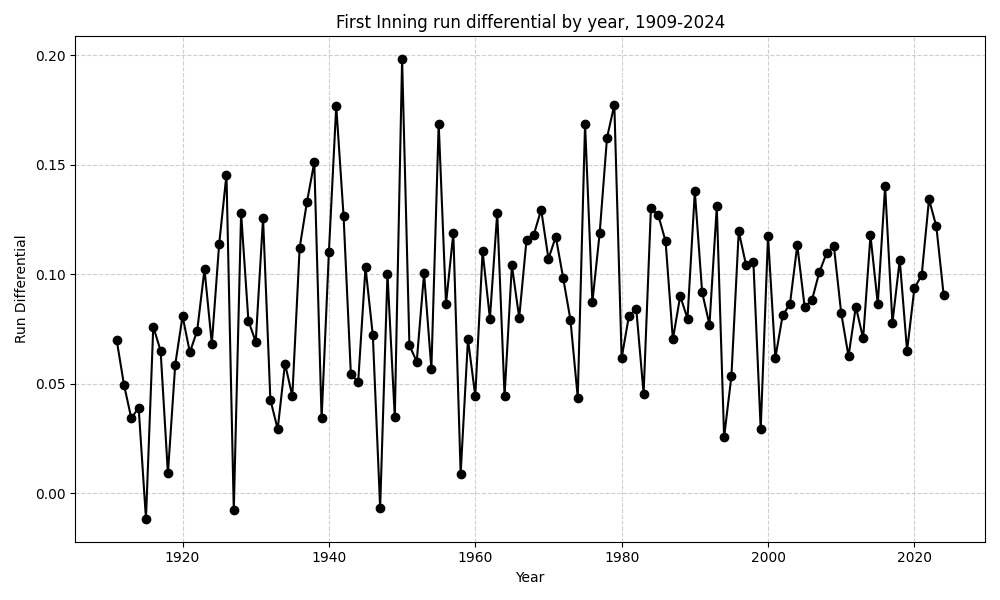
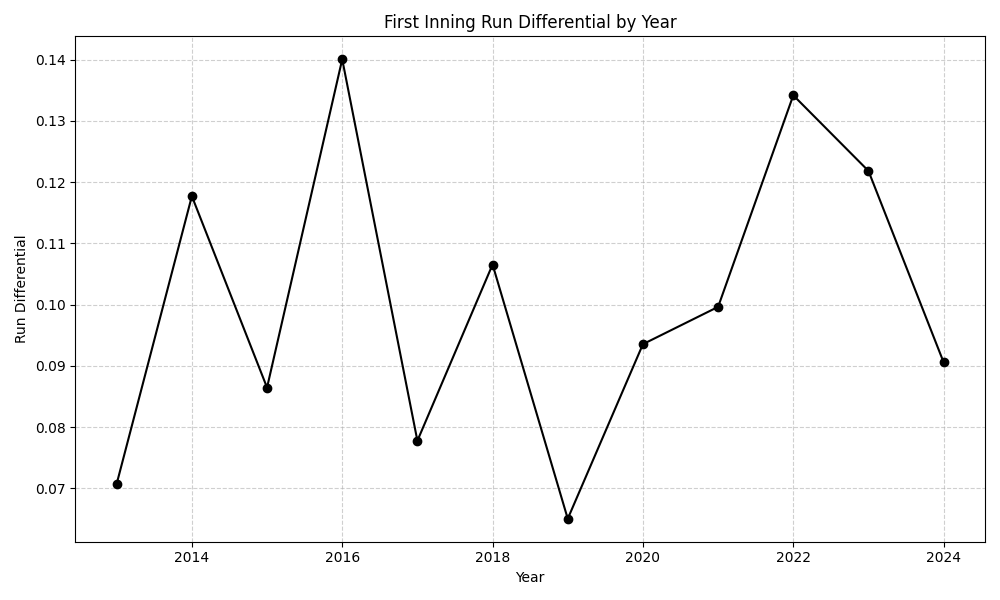
added more visuals

diff --git a/visuals/visualize_first_inning.py b/visuals/visualize_first_inning.py
@@ -1,118 +1,92 @@
 import pandas as pd
 import matplotlib.pyplot as plt
-import os
 
 def plot_runs_per_inning(df, save_path="runs_per_inning.png"):
-    # Drop missing/empty rows
     df = df.dropna(subset=["inning", "visitor_avg_runs", "home_avg_runs"])
-
-    # Calculate combined runs (both teams)
     df["total_avg_runs"] = df["visitor_avg_runs"] + df["home_avg_runs"]
 
-    innings = df["inning"]
-    total_avg_runs = df["total_avg_runs"]
-
     plt.figure(figsize=(10, 6))
-    plt.plot(innings, total_avg_runs, marker="o", linestyle="-", color="black")
+    plt.plot(df["inning"], df["total_avg_runs"], linestyle="-", marker='o', color="black", label="Total")
     plt.xlabel("Inning")
     plt.ylabel("Average Runs per Inning")
     plt.title("Average Runs per Inning (Both Teams, 2013-2024)")
     plt.xticks(range(1, 11))
     plt.grid(True, linestyle="--", alpha=0.6)
+    plt.legend()
     plt.tight_layout()
     plt.savefig(save_path)
     plt.show()
 
 def home_versus_visiting_inning(df, save_path="home_versus_visiting_inning.png"):
-    innings = df["inning"]
-    visitor_avg_runs = df["visitor_avg_runs"]
-    home_avg_runs = df["home_avg_runs"]
+    df = df.dropna(subset=["inning", "visitor_avg_runs", "home_avg_runs"])
 
     plt.figure(figsize=(10, 6))
-    plt.plot(innings, visitor_avg_runs, marker="o", linestyle="-", color="blue")
-    plt.plot(innings, home_avg_runs, marker="s", linestyle="-", color="red")
+    plt.plot(df["inning"], df["visitor_avg_runs"], linestyle="-", marker='o', color="blue", label="Visitor")
+    plt.plot(df["inning"], df["home_avg_runs"], linestyle="-", marker='o', color="red", label="Home")
     plt.xlabel("Inning")
     plt.ylabel("Runs per Inning")
     plt.title("Average Runs per Inning by Visitor and Home, 2013-2024")
     plt.xticks(range(1, 11))
-    plt.legend()
     plt.grid(True, linestyle="--", alpha=0.6)
+    plt.legend()
     plt.tight_layout()
     plt.savefig(save_path)
     plt.show()
 
 def plot_differential_runs_per_inning(df, save_path="differential_runs_per_inning.png"):
-    # Drop missing/empty rows
     df = df.dropna(subset=["inning", "visitor_avg_runs", "home_avg_runs"])
-
-    # Calculate combined runs (both teams)
-    df["differential_avg_runs"] = df["home_avg_runs"] - df["visitor_avg_runs"]  
-
-    innings = df["inning"]
-    differential_avg_runs = df["differential_avg_runs"]
+    df["differential_avg_runs"] = df["home_avg_runs"] - df["visitor_avg_runs"]
 
     plt.figure(figsize=(10, 6))
-    plt.plot(innings, differential_avg_runs, marker="o", linestyle="-", color="black")
+    plt.plot(df["inning"], df["differential_avg_runs"], linestyle="-", marker='o', color="black", label="Home - Visitor")
     plt.xlabel("Inning")
     plt.ylabel("Run Differential")
-    plt.title("Run Differential (Home minus Visitor) by Inning, 2013-2024")
+    plt.title("Run Differential by Inning (Home minus Visitor, 2013-2024)")
     plt.xticks(range(1, 11))
     plt.grid(True, linestyle="--", alpha=0.6)
-    plt.tight_layout()
-    plt.savefig(save_path)
-    plt.show()
-
-def plot_first_inning_run_diff_by_decade(df, save_path="first_inning_diff_by_decade.png"):
-    # Filter for first inning only
-    first_inning = df[df["inning"] == 1].copy()
-
-    # Create decade column
-    first_inning["decade"] = (first_inning["year"].astype(int) // 10) * 10
-
-    # Group by decade and calculate mean run differential
-    decade_stats = first_inning.groupby("decade")["home_minus_vis_runs"].mean().reset_index()
-
-    # Plot
-    plt.figure(figsize=(10,6))
-    plt.plot(decade_stats["decade"].astype(str), decade_stats["home_minus_vis_runs"], marker="o", color="navy")
-    plt.xlabel("Decade")
-    plt.ylabel("Average First Inning Run Differential (Home - Visitor)")
-    plt.title("First Inning Run Differential by Decade (Home minus Visitor)")
-    plt.xticks(rotation=45)
-    plt.grid(axis="y", linestyle="--", alpha=0.6)
+    plt.legend()
     plt.tight_layout()
     plt.savefig(save_path)
     plt.show()
 
 def plot_differential_runs_first_inning(df, save_path="differential_runs_first_inning.png"):
-    # Drop missing/empty rows
-    differential_innings = df["home_minus_vis_runs"]
-    years = df["year"]
+    if "home_minus_vis_runs" not in df.columns or "year" not in df.columns:
+        print("Skipping plot_differential_runs_first_inning: required columns missing.")
+        return
+
+    df = df.dropna(subset=["home_minus_vis_runs", "year"])
 
     plt.figure(figsize=(10, 6))
-    plt.plot(years, differential_innings, marker="o", linestyle="-", color="black")
+    plt.plot(df["year"], df["home_minus_vis_runs"], linestyle="-", marker='o', color="black")
     plt.xlabel("Year")
     plt.ylabel("Run Differential")
-    plt.title("First Inning run differential by year, 1909-2024")
+    plt.title("First Inning Run Differential by Year")
     plt.grid(True, linestyle="--", alpha=0.6)
     plt.tight_layout()
     plt.savefig(save_path)
     plt.show()
 
-def plot_home_vs_visitor_first_inning_line(df, save_path: str = "home_vs_visitor_first_inning.png"):
+def plot_home_vs_visitor_first_inning_line(df, save_path="home_vs_visitor_first_inning.png"):
+    # Check for expected columns
+    col_x = next((c for c in df.columns if "visitor" in c.lower()), None)
+    col_y = next((c for c in df.columns if "home" in c.lower() and "first" in c.lower()), None)
+
+    if col_x is None or col_y is None:
+        print("Skipping plot_home_vs_visitor_first_inning_line: required columns missing.")
+        return
+
     plt.figure(figsize=(8, 5))
-    plt.plot(df["visitor_bin"], df["avg_home_runs_first_inning"], marker='o', linestyle='-')
+    plt.plot(df[col_x], df[col_y], linestyle="-", marker="o")
     plt.xlabel("Visitor Runs in First Inning")
     plt.ylabel("Average Home Team Runs in First Inning")
     plt.title("Correlation of Home Scoring and Visitor Scoring")
-    plt.grid(True, linestyle='--', alpha=0.5)
+    plt.grid(True, linestyle="--", alpha=0.5)
+    plt.tight_layout()
     plt.savefig(save_path, dpi=300, bbox_inches='tight')
     plt.show()
 
-
-
 def main():
-    # Load inning summary CSV
+    # Load CSVs
     csv_path = "/Users/kevinhe/orioles-project/data/out/inning_summary.csv"
     csv_path_two = "/Users/kevinhe/orioles-project/data/out/first_inning_summary.csv"
     csv_path_three = "/Users/kevinhe/orioles-project/data/out/visitor_vs_home_first_inning.csv"
@@ -121,23 +95,21 @@ def main():
     df_2 = pd.read_csv(csv_path_two)
     df_3 = pd.read_csv(csv_path_three)
 
+    # Filter for 2013–2024 if year column exists
+    if "year" in df.columns:
+        df = df[(df["year"] >= 2013) & (df["year"] <= 2024)]
+    if "year" in df_2.columns:
+        df_2 = df_2[(df_2["year"] >= 2013) & (df_2["year"] <= 2024)]
 
-
-    # restrict to 2010–present
-    df = df[(df["year"] <= 2024) & (df["year"] >= 2013)]
-
-    # group by inning and average across all years
+    # Group by inning
     df_grouped = df.groupby("inning")[["visitor_avg_runs", "home_avg_runs"]].mean().reset_index()
 
-    # single plot
+    # Generate plots
     plot_runs_per_inning(df_grouped)
     home_versus_visiting_inning(df_grouped)
     plot_differential_runs_per_inning(df_grouped)
     plot_differential_runs_first_inning(df_2)
     plot_home_vs_visitor_first_inning_line(df_3)
-
-
-
 
 if __name__ == "__main__":
     main()
